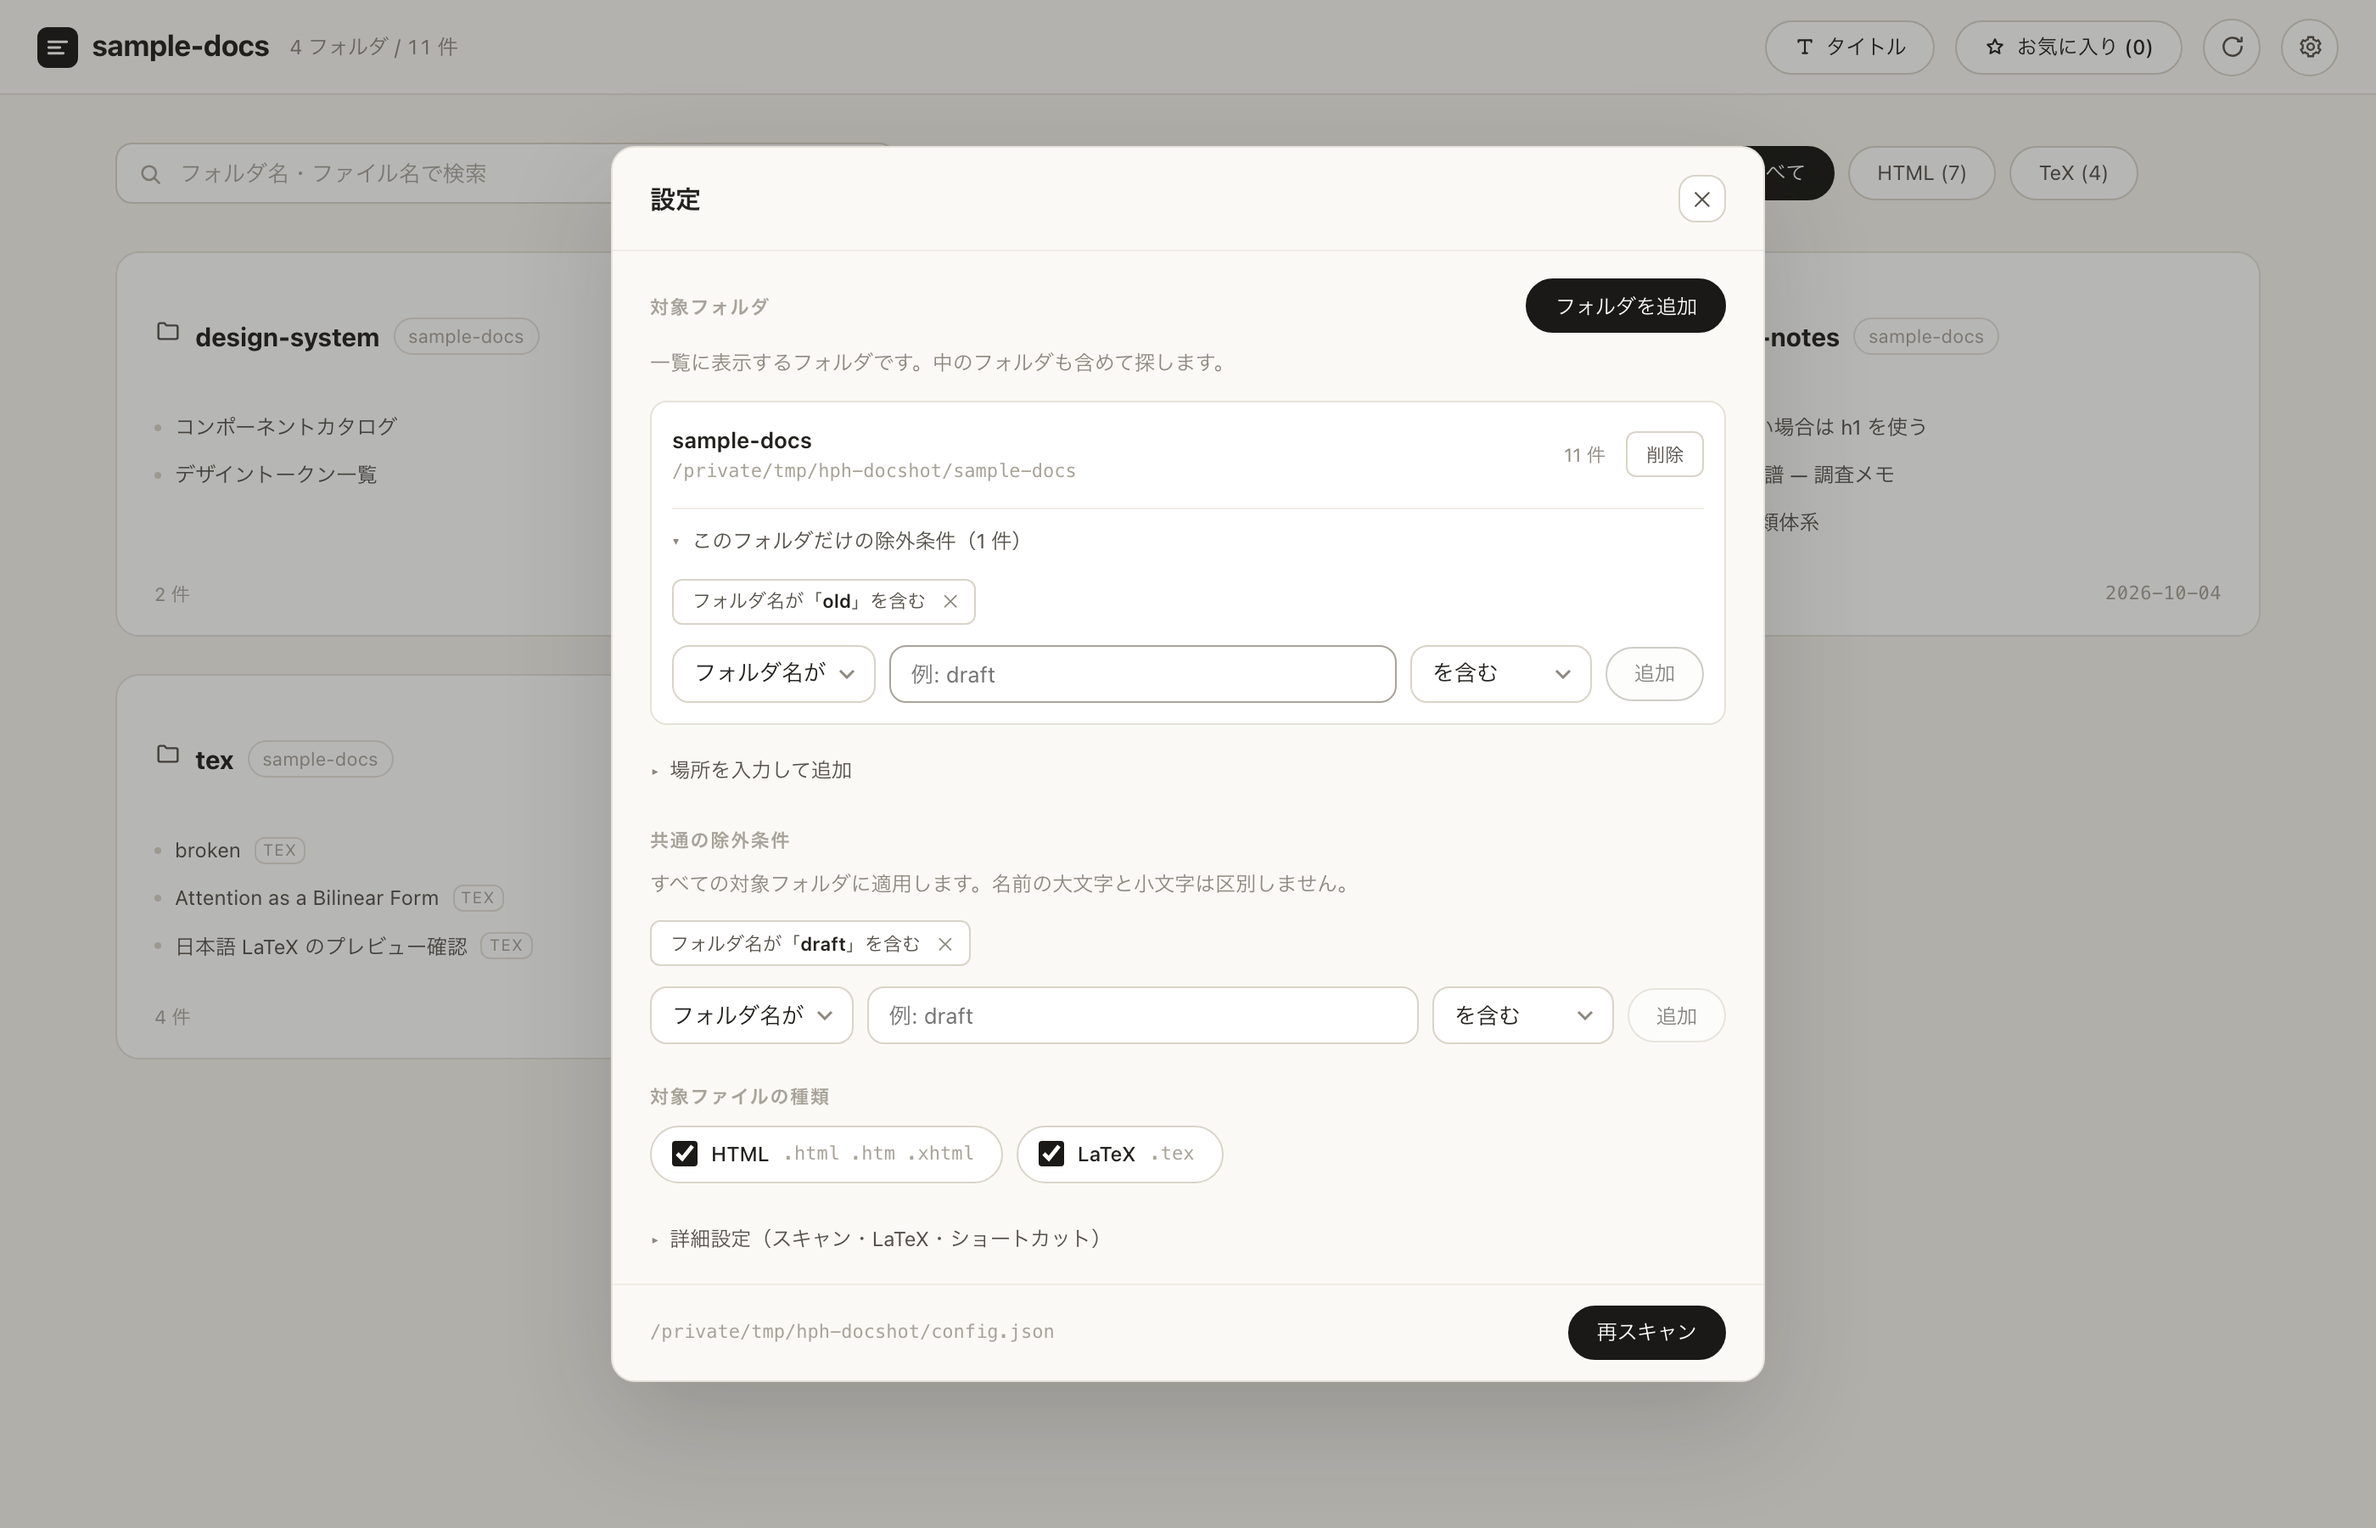
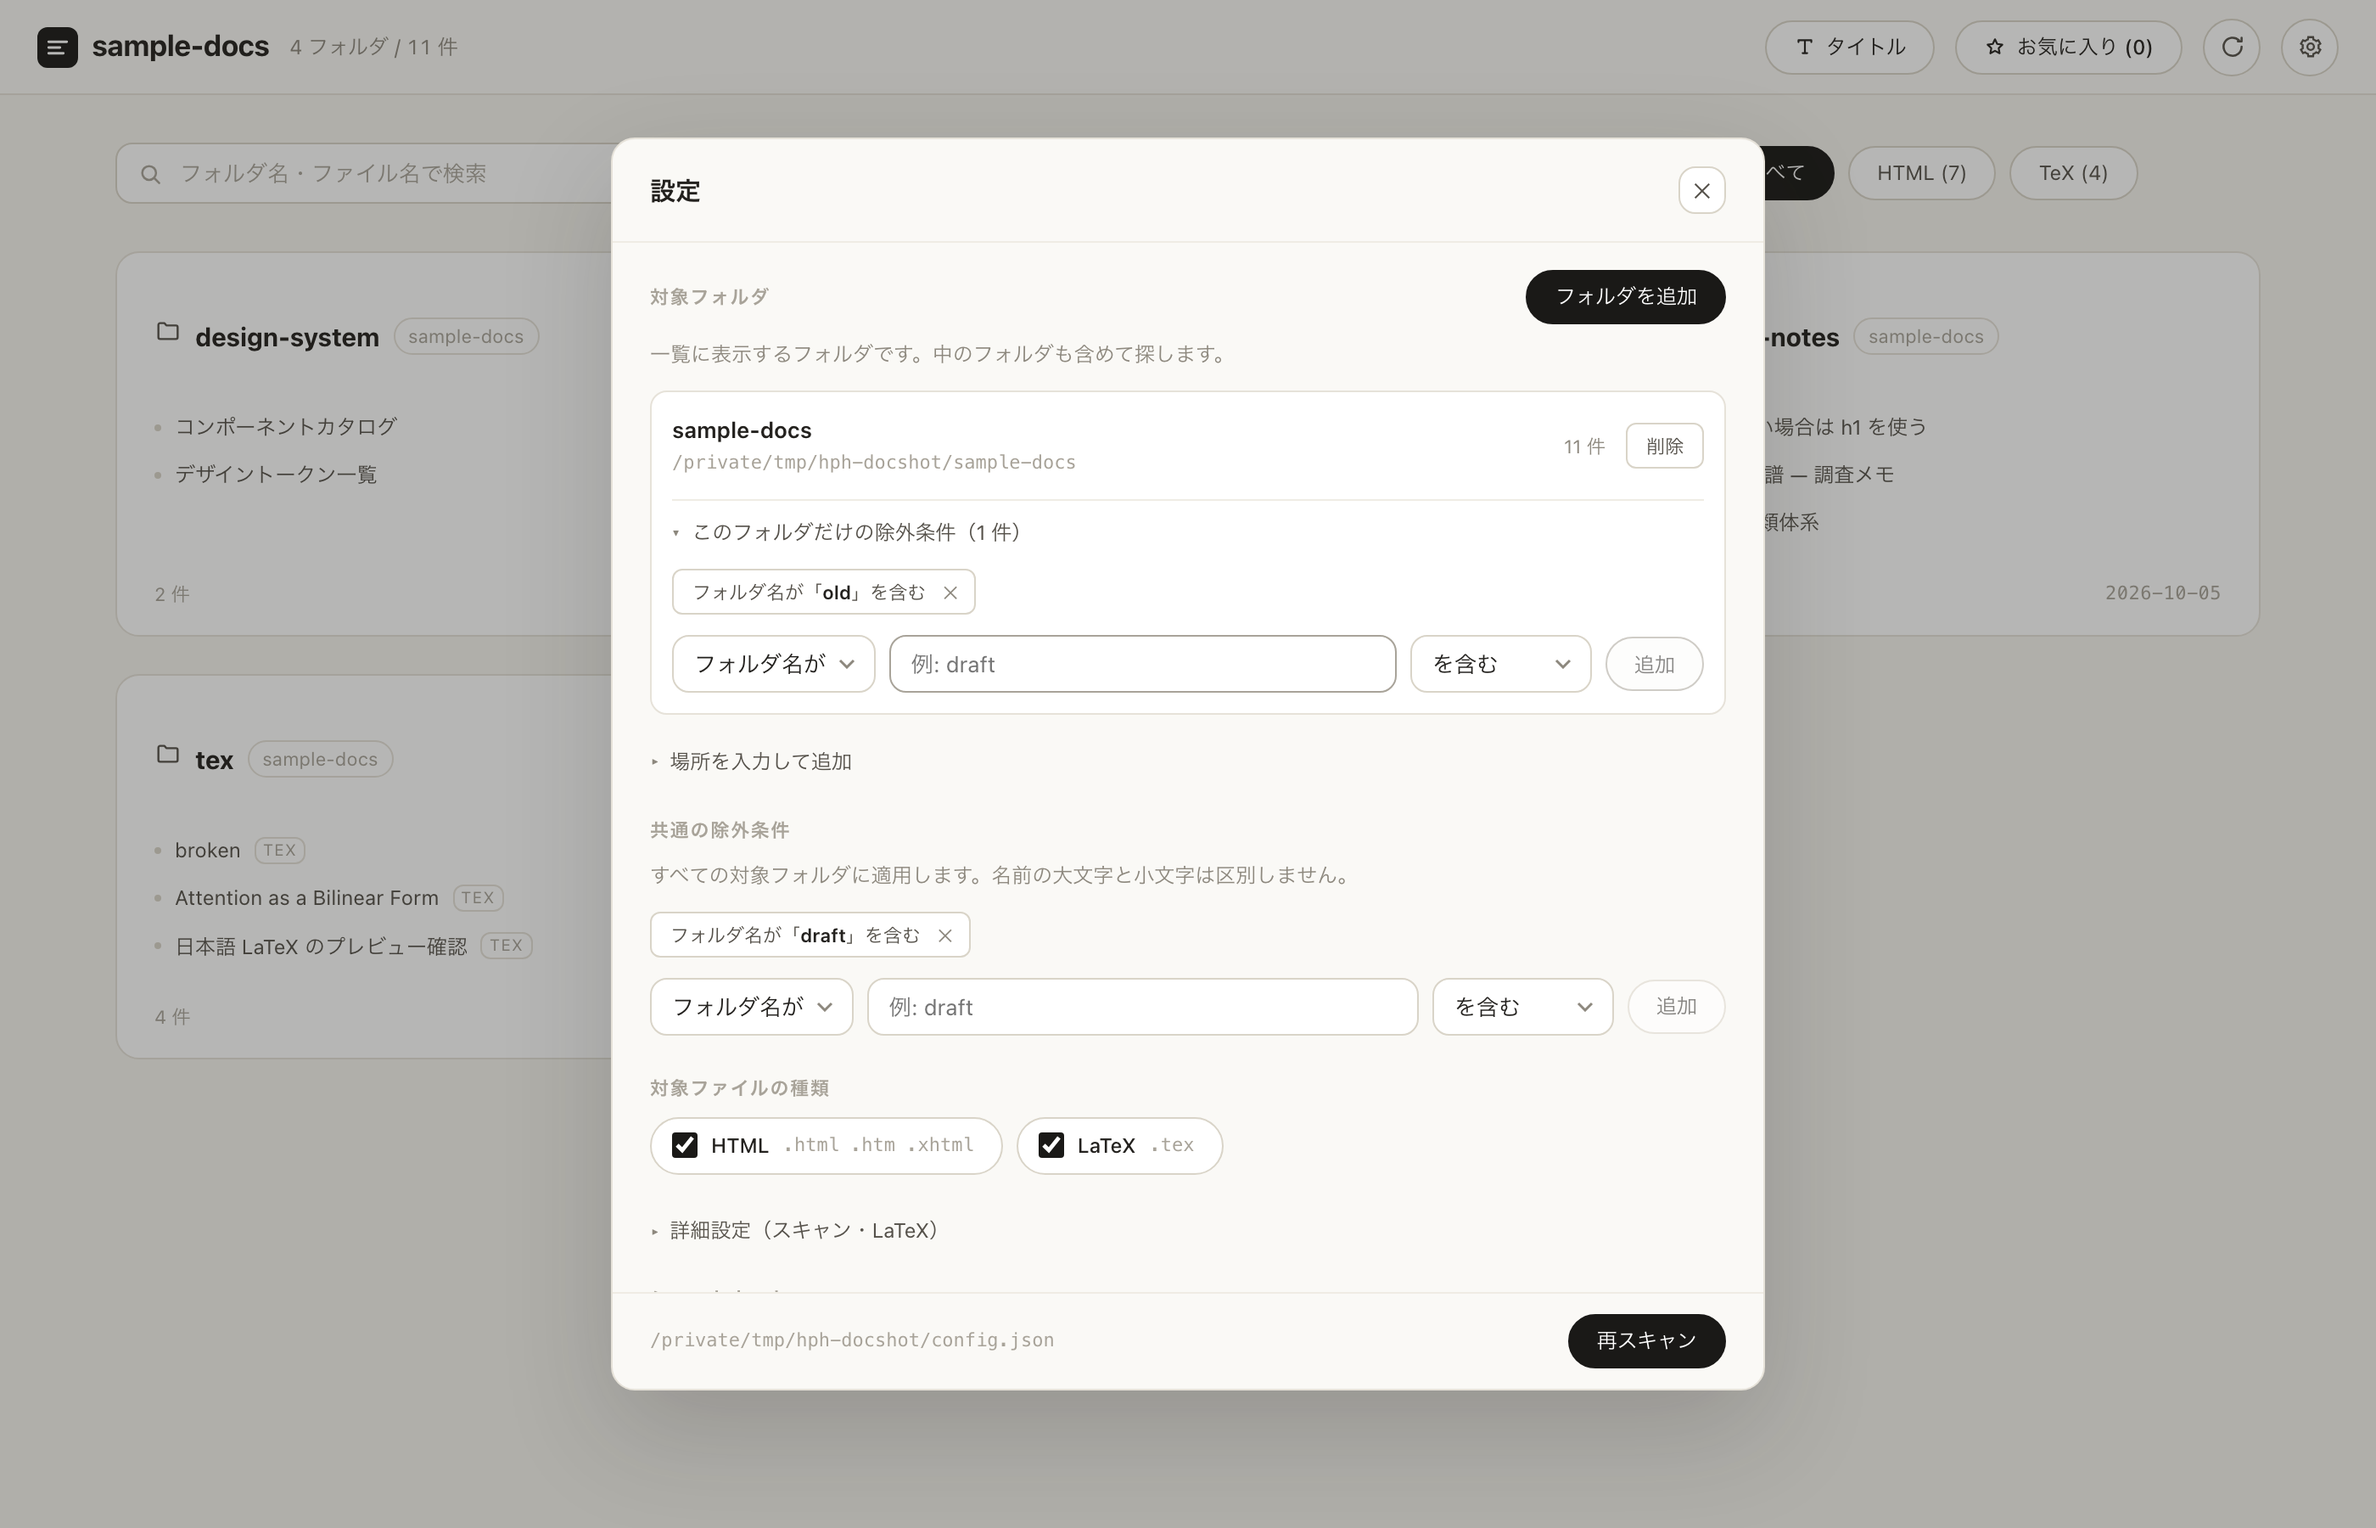
feat: ショートカット一覧を詳細設定から出し、常に表示する
一覧は変更できない参照情報で、折りたたむと見つけにくくなるだけだった。

Claude-Session: https://claude.ai/code/session_01EVah3xdQJ6H4bRWP4VoebM

diff --git a/hph/static/js/views/settings-advanced.js b/hph/static/js/views/settings-advanced.js
@@ -1,4 +1,4 @@
-/** 設定の「詳細設定」: スキャン設定・LaTeX・ショートカット一覧（保存ボタンで保存する）。 */
+/** 設定の「詳細設定」（スキャン設定・LaTeX。保存ボタンで保存する）と、ショートカット一覧。 */
 
 import { el } from "../util.js";
 
@@ -131,20 +131,12 @@ export function advancedSettings({ config, texStatus, save, state }) {
     "details",
     { class: "disclosure settings-section", open: state.open },
     [
-      el("summary", { text: "詳細設定（スキャン・LaTeX・ショートカット）" }),
+      el("summary", { text: "詳細設定（スキャン・LaTeX）" }),
       el("div", { class: "disclosure__body" }, [
         el("h3", { class: "section-title", text: "スキャン設定" }),
         ...scanSettings(config, save),
         el("h3", { class: "section-title", text: "LaTeX" }),
         ...texSettings(config, texStatus, save),
-        el("h3", { class: "section-title", text: "ショートカット" }),
-        el(
-          "div",
-          { class: "shortcut-list" },
-          SHORTCUTS.map(([keys, desc]) =>
-            el("div", {}, [el("kbd", { text: keys }), " ", desc]),
-          ),
-        ),
       ]),
     ],
   );
@@ -152,4 +144,28 @@ export function advancedSettings({ config, texStatus, save, state }) {
     state.open = details.open;
   });
   return details;
+}
+
+/** ショートカット一覧。変更できない参照情報なので折りたたまずに見せる。 */
+export function shortcutSection() {
+  return el(
+    "section",
+    { class: "settings-section", "aria-labelledby": "secShortcuts" },
+    [
+      el("div", { class: "section-head" }, [
+        el("h3", {
+          class: "section-title",
+          id: "secShortcuts",
+          text: "ショートカット",
+        }),
+      ]),
+      el(
+        "div",
+        { class: "shortcut-list" },
+        SHORTCUTS.map(([keys, desc]) =>
+          el("div", {}, [el("kbd", { text: keys }), " ", desc]),
+        ),
+      ),
+    ],
+  );
 }

diff --git a/hph/static/js/views/settings.js b/hph/static/js/views/settings.js
@@ -1,11 +1,11 @@
 /**
- * 設定モーダル: 対象フォルダ、共通の除外条件、対象ファイルの種類、詳細設定。
+ * 設定モーダル: 対象フォルダ、共通の除外条件、対象ファイルの種類、詳細設定、ショートカット一覧。
  */
 
 import { el, errorReason } from "../util.js";
 import { createExcludeEditor } from "./exclude-editor.js";
 import { createRootList } from "./root-list.js";
-import { advancedSettings } from "./settings-advanced.js";
+import { advancedSettings, shortcutSection } from "./settings-advanced.js";
 
 const HTML_EXTS = [".html", ".htm", ".xhtml"];
 const TEX_EXT = ".tex";
@@ -198,6 +198,7 @@ export function createSettingsView({ dom, api, onChanged, onNotify }) {
       excludeSection(),
       typesNode,
       advancedSettings({ config, texStatus, save, state: advancedState }),
+      shortcutSection(),
     );
   }
 

diff --git a/tests/e2e/app.e2e.js b/tests/e2e/app.e2e.js
@@ -238,6 +238,10 @@ const assert = require("assert");
   await page.fill("#homeSearch", "");
   await folderCard("scratch").waitFor();
   await page.click("#settingsBtn");
+  // ショートカット一覧は変更できない参照情報なので、開いた直後から見える
+  await page
+    .locator('section[aria-labelledby="secShortcuts"] .shortcut-list')
+    .waitFor({ state: "visible", timeout: 3000 });
   const excludeSection = page.locator('section[aria-labelledby="secExclude"]');
   await excludeSection.locator('input[aria-label="名前"]').fill("scratch");
   await excludeSection.locator(".rule-form .pill").click();

diff --git a/docs/usage.md b/docs/usage.md
@@ -112,7 +112,8 @@ API 仕様は [api.md](./api.md) を参照してください。
   保存に失敗したときは通知が出て、画面は保存前の状態に戻ります。
 - **詳細設定**（初期状態では閉じています） — 「スキャン設定」（最大階層・自動再スキャン間隔）を「スキャン設定を保存」で、
   「LaTeX」（PDF プレビューの有効 / 無効、エンジン、タイムアウト、コンパイル回数）を「LaTeX 設定を保存」で保存します。
-  検出済みエンジン（pdflatex / xelatex / lualatex / tectonic など）もここに表示され、ショートカットの一覧もここにあります。
+  検出済みエンジン（pdflatex / xelatex / lualatex / tectonic など）もここに表示されます。
+- **ショートカット** — キーボードショートカットの一覧を常に表示します（下の「キーボードショートカット」と同じ内容です）。
 - 上記以外の設定キー（`ignore_globs` や `tex_cache_limit` など）は設定ファイルを直接編集します。
   キーの一覧は [configuration.md](./configuration.md) を参照してください。
 - モーダル下部には現在読み込んでいる設定ファイルのパスと、「再スキャン」ボタン（手動での再スキャン）があります。
